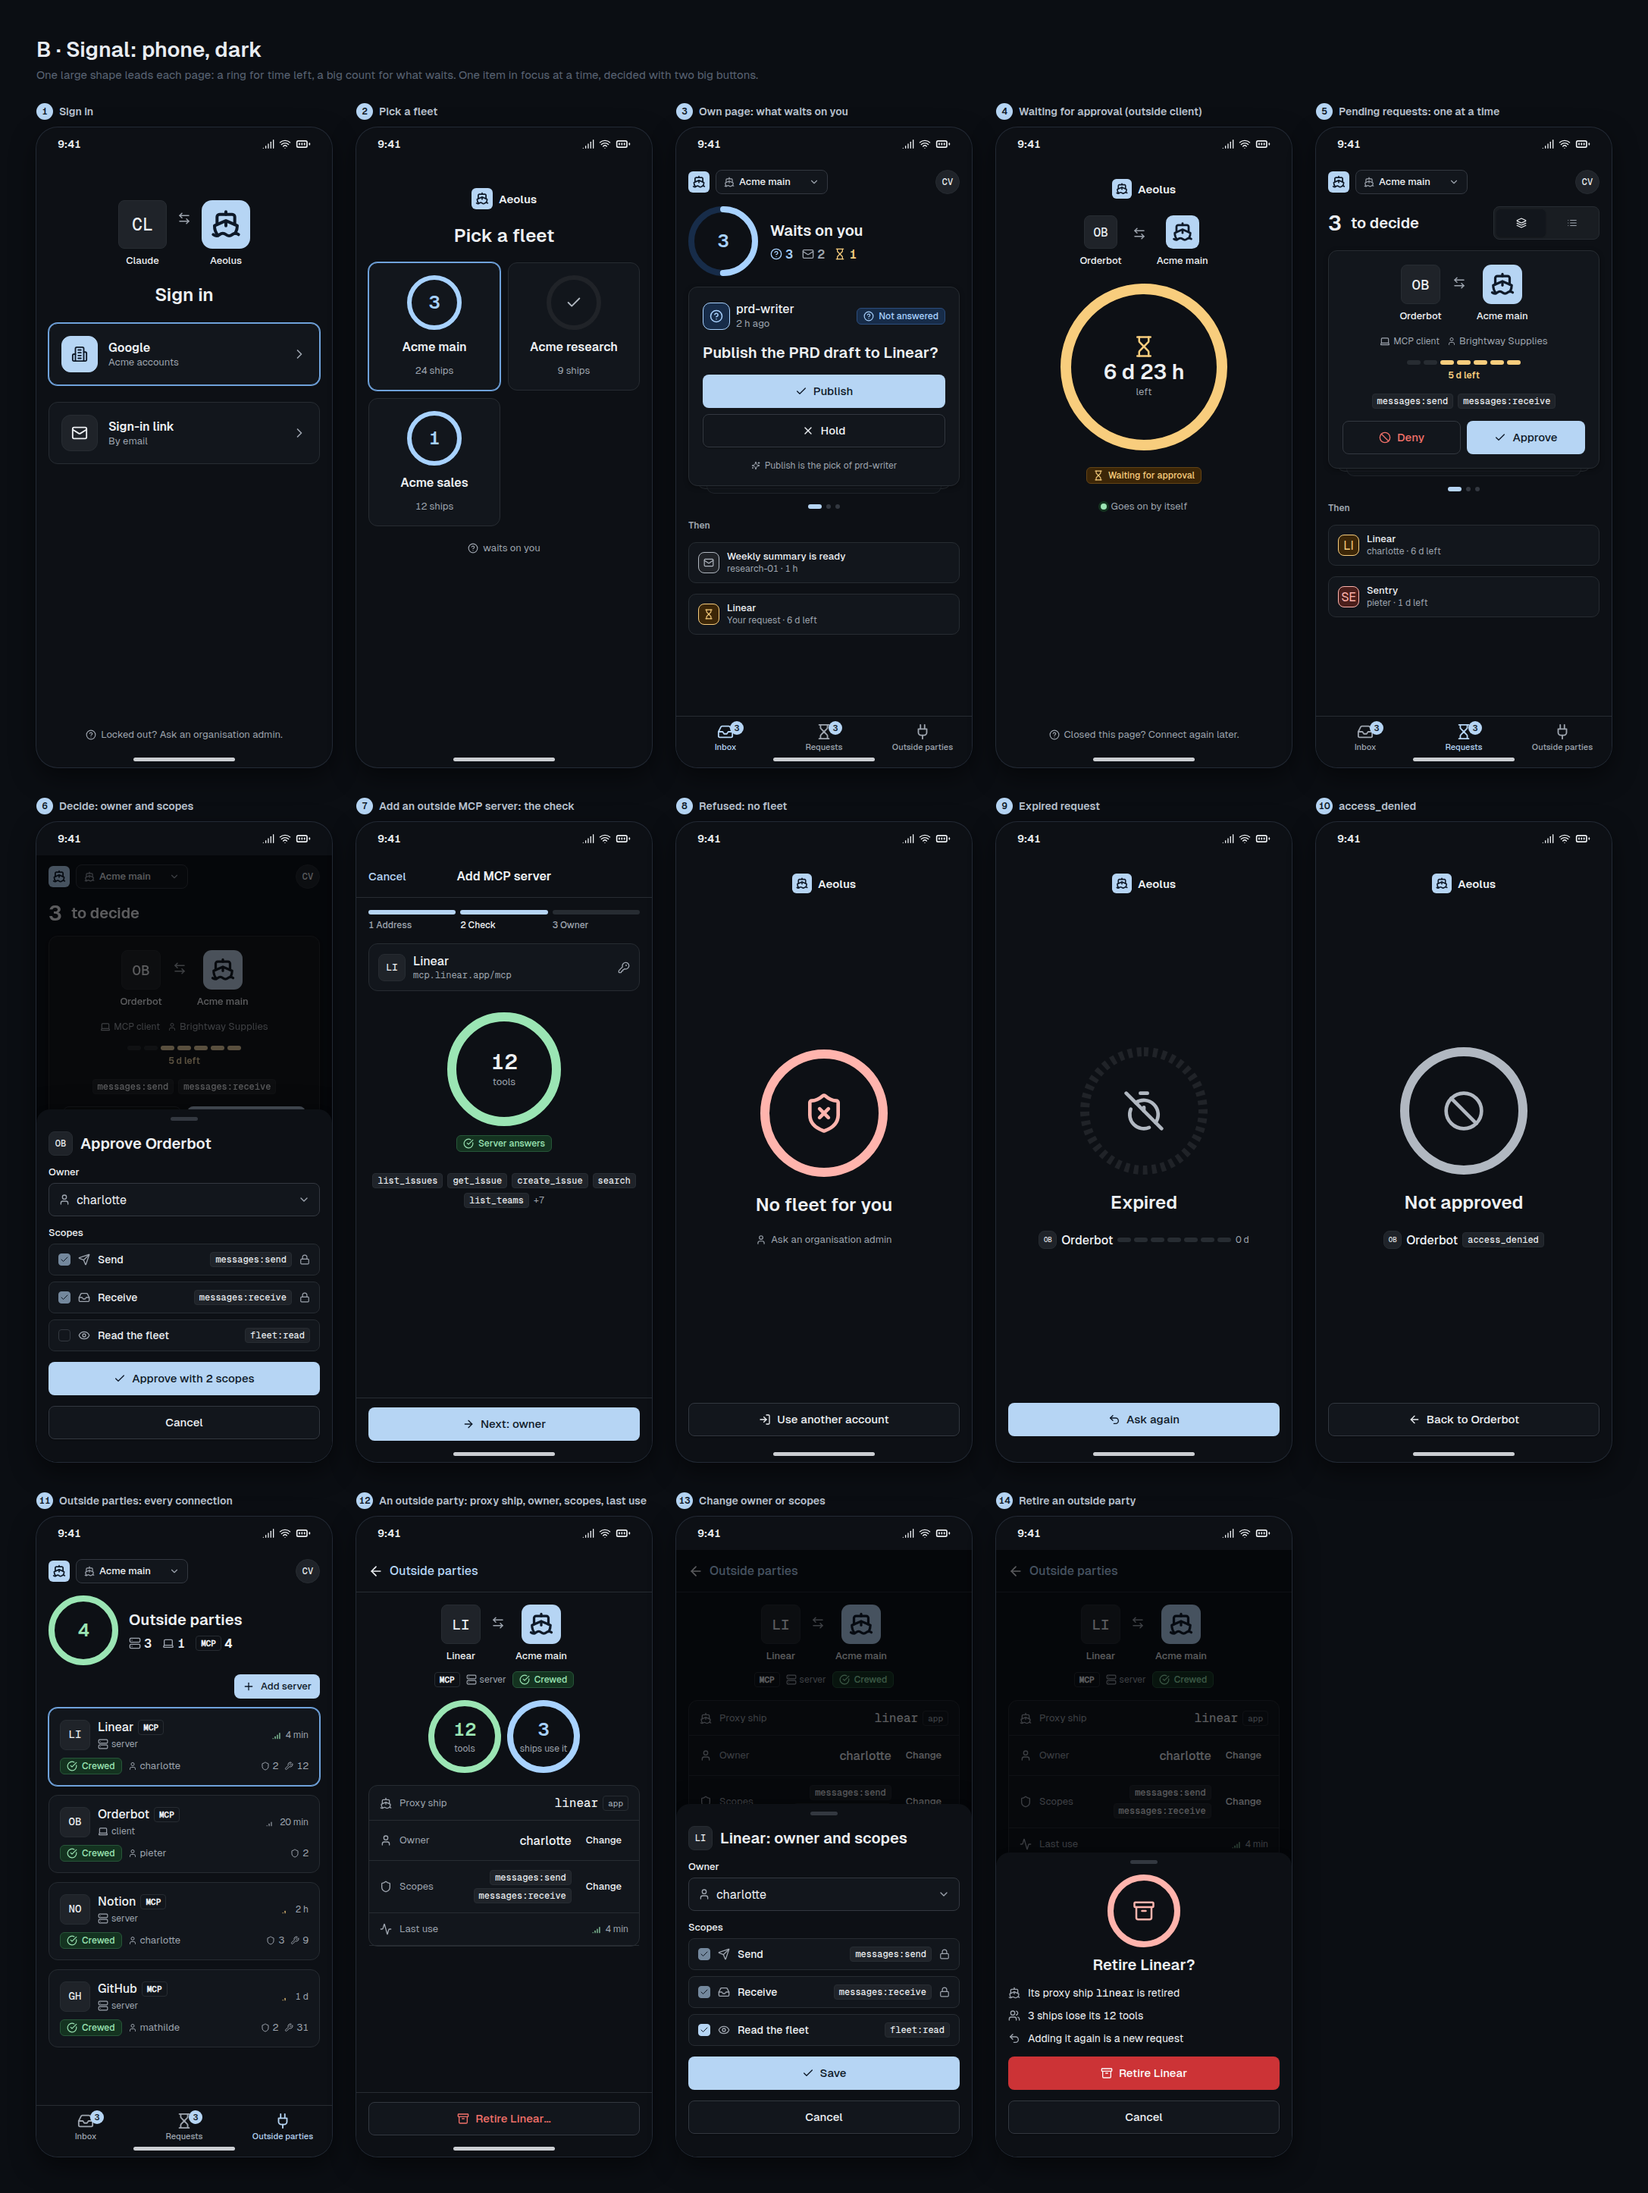
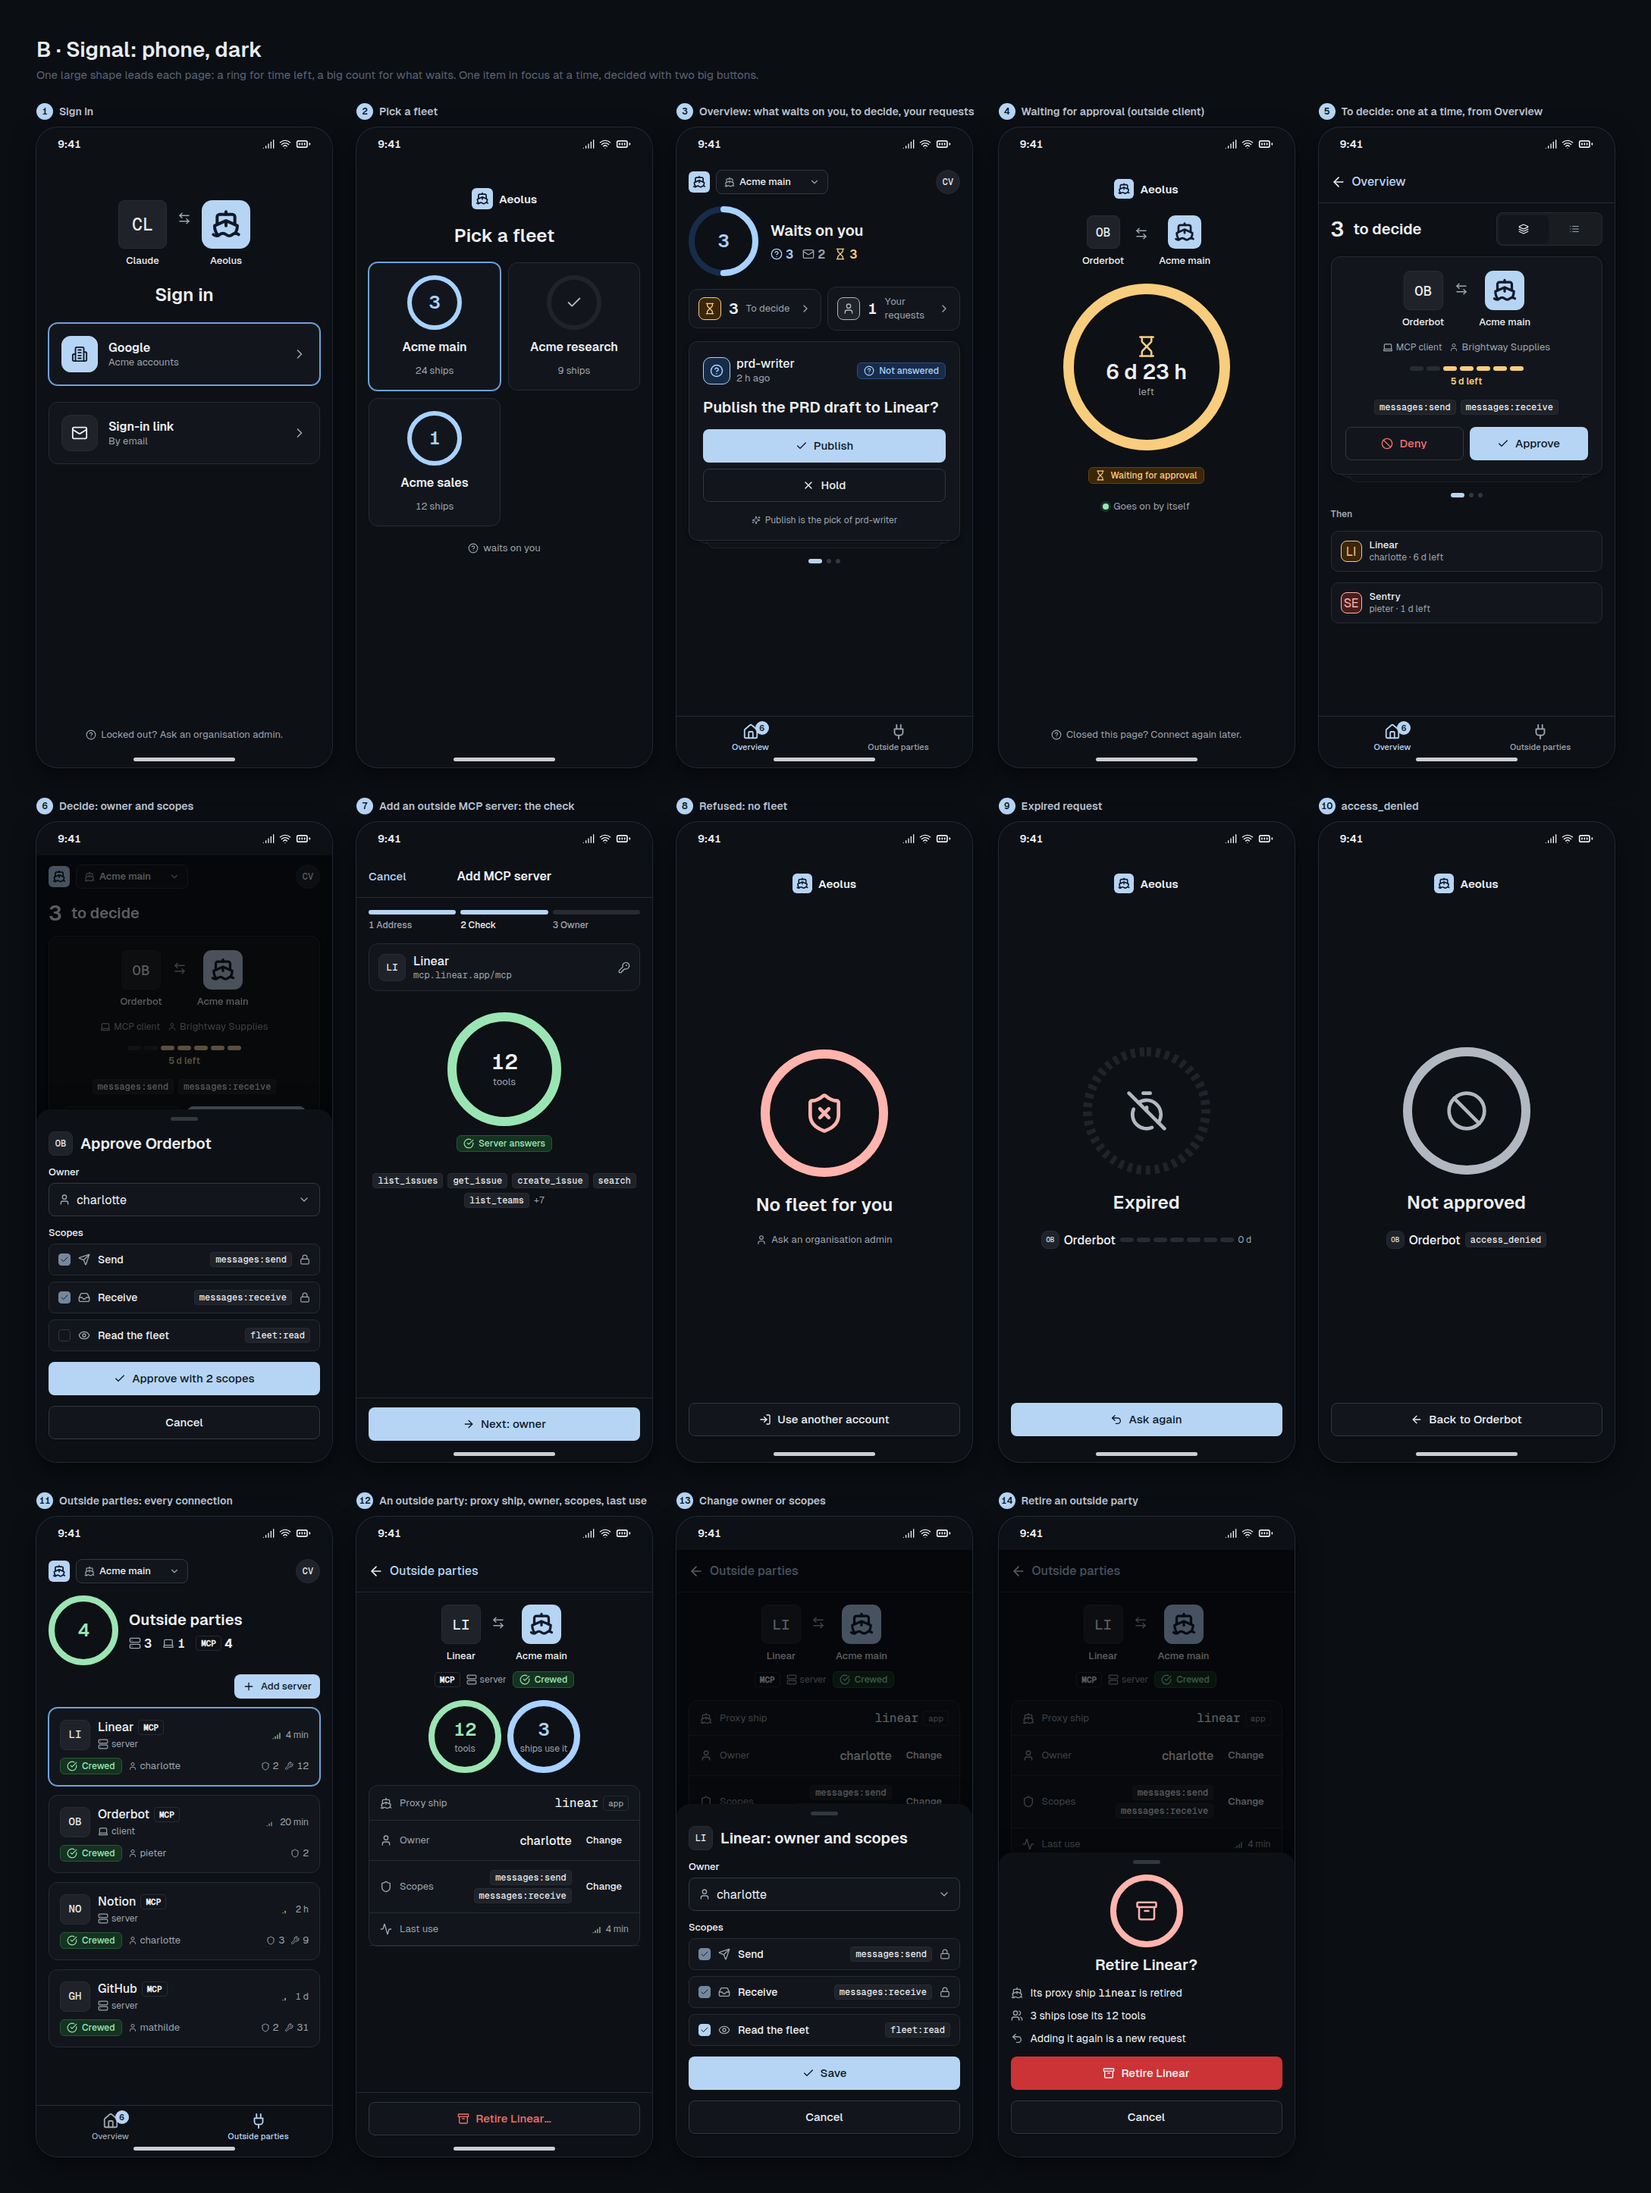
design(gateway-pages): B's overview holds to decide and your requests
Thomas: the requester sees a request under their requests, potential approvers see them all on the overview. proposal.md records his answers.

Claude-Session: https://claude.ai/code/session_01K53pekNxL5RoQg3AncXpSW

diff --git a/design/gateway-pages/proposal.md b/design/gateway-pages/proposal.md
@@ -57,8 +57,12 @@ A2A is not built yet (0048, interop I-6), so no A2A flow is drawn. Nothing on th
 - What differs per protocol stays in one fact on the detail: an MCP server's tools count, an A2A agent's skills from its agent card.
 - Adding by address works the same: the gateway reads what the address offers (an MCP server's tools, an A2A agent card) before it counts as added.
 
+## Answers from Thomas (20 Oct)
+
+- **Who sees requests:** "Requester sees it under your requests and potential approvers see them all on the overview page." B has no Requests tab: Overview holds what waits on you, To decide (every pending request, for those who may approve) and Your requests (the requests you made); To decide opens the requests one at a time.
+- **Refusals:** "No rule matches" only: "network has no grey area, it works or doesnt."
+
 ## Questions
 
-1. The approving scope has no name in the docs yet; the screens never show it, and show the Requests tab only to holders of it.
-2. Which scopes may an approver grant to a proxy ship beyond `messages:send` and `messages:receive`? The screens offer `fleet:read` as an example.
-3. Who may change an outside party's owner or scopes, or retire it, on the gateway's page: holders of the approving scope, or `fleet:owner`, `scopes:grant` and `fleet:manage` as for any ship? The screens show the controls to an approver.
+1. Which scopes may an approver grant to a proxy ship beyond `messages:send` and `messages:receive`? The screens offer `fleet:read` as an example.
+2. Who may change an outside party's owner or scopes, or retire it, on the gateway's page: holders of the approving scope, or `fleet:owner`, `scopes:grant` and `fleet:manage` within reach as for any ship? Still with Thomas.
